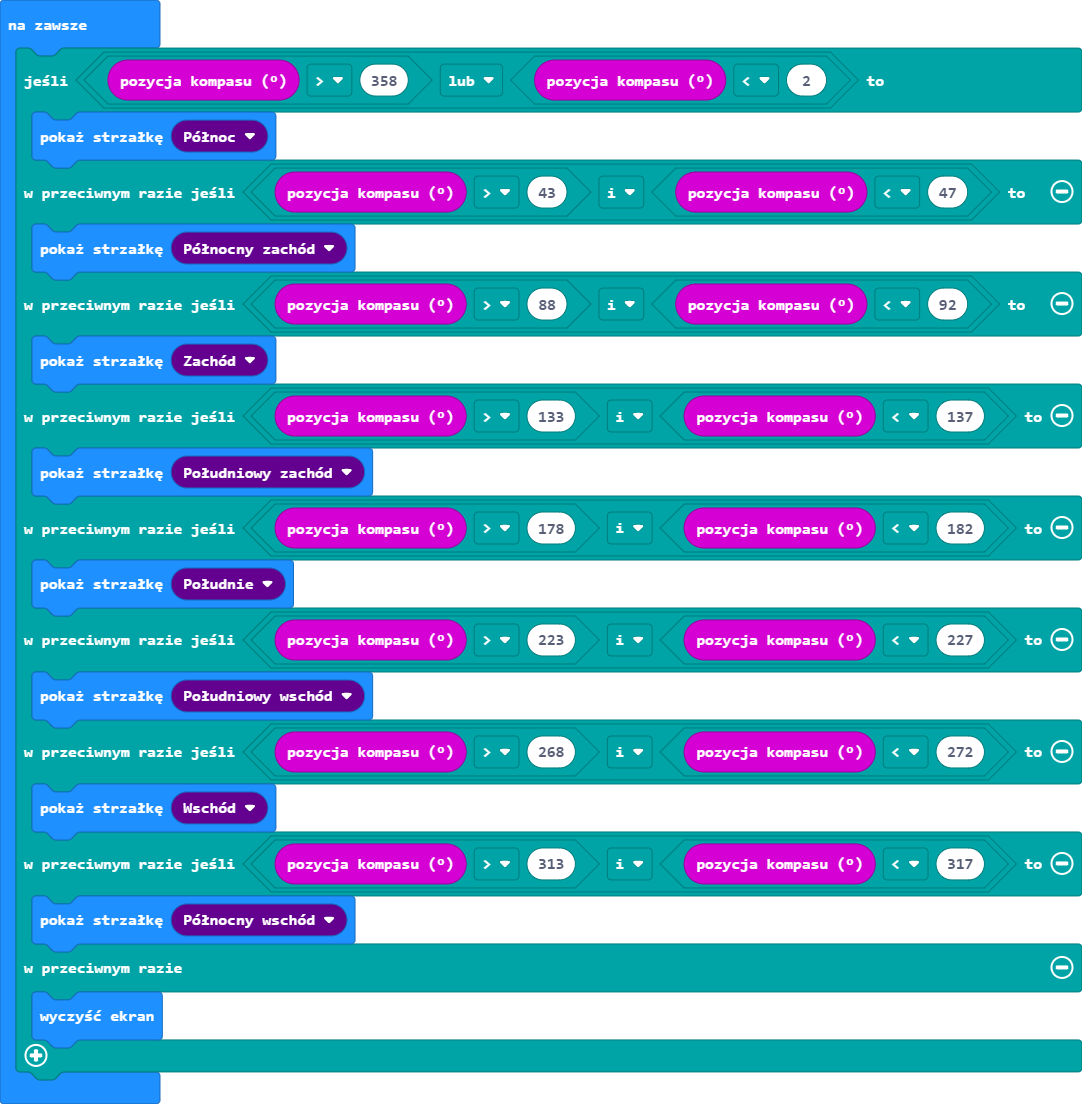
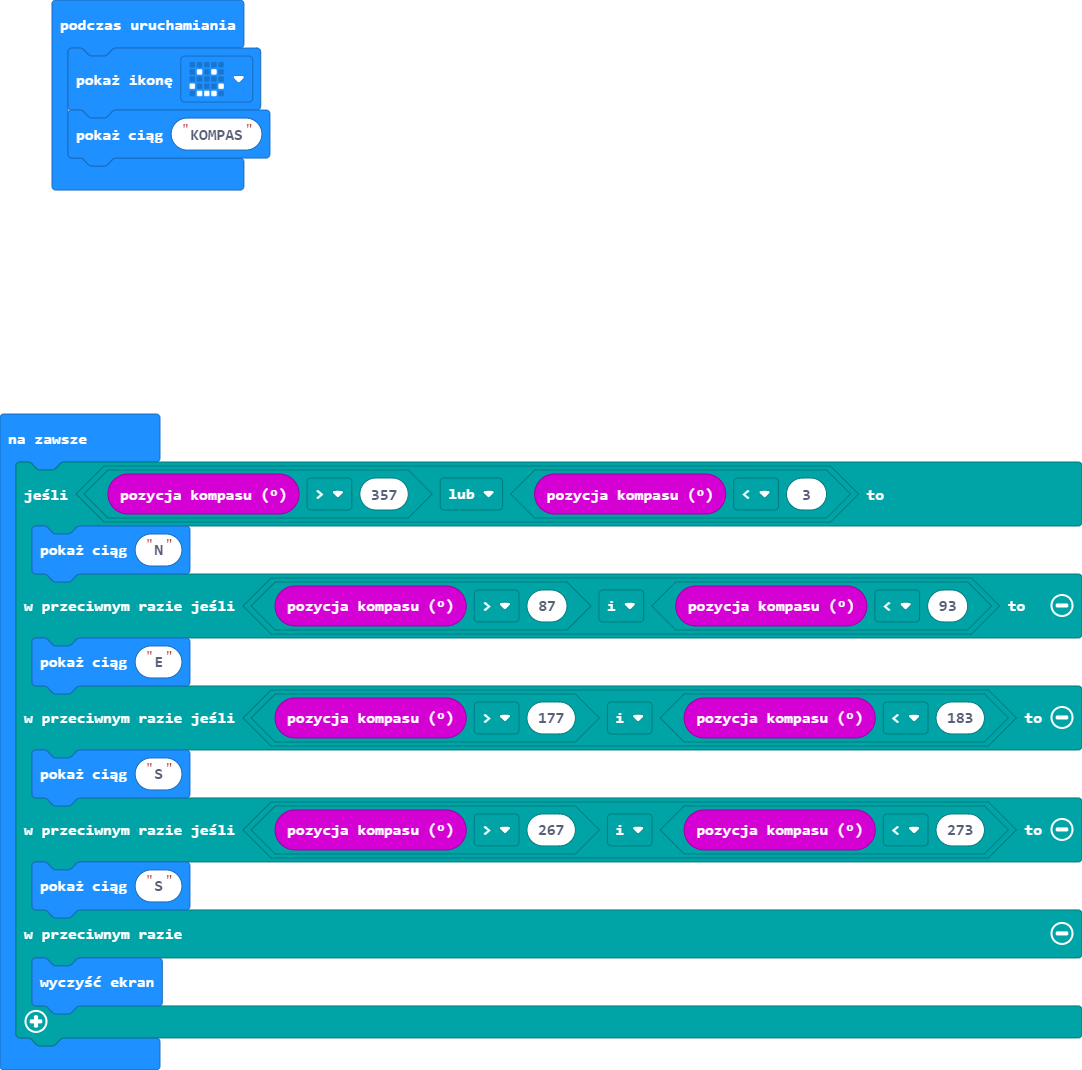
Aktualizacja pxt.json, main.blocks, main.ts, main.py

diff --git a/main.ts b/main.ts
@@ -1,20 +1,14 @@
+basic.showIcon(IconNames.Happy)
+basic.showString("KOMPAS")
 basic.forever(function () {
-    if (input.compassHeading() > 358 || input.compassHeading() < 2) {
-        basic.showArrow(ArrowNames.North)
-    } else if (input.compassHeading() > 43 && input.compassHeading() < 47) {
-        basic.showArrow(ArrowNames.NorthWest)
-    } else if (input.compassHeading() > 88 && input.compassHeading() < 92) {
-        basic.showArrow(ArrowNames.West)
-    } else if (input.compassHeading() > 133 && input.compassHeading() < 137) {
-        basic.showArrow(ArrowNames.SouthWest)
-    } else if (input.compassHeading() > 178 && input.compassHeading() < 182) {
-        basic.showArrow(ArrowNames.South)
-    } else if (input.compassHeading() > 223 && input.compassHeading() < 227) {
-        basic.showArrow(ArrowNames.SouthEast)
-    } else if (input.compassHeading() > 268 && input.compassHeading() < 272) {
-        basic.showArrow(ArrowNames.East)
-    } else if (input.compassHeading() > 313 && input.compassHeading() < 317) {
-        basic.showArrow(ArrowNames.NorthEast)
+    if (input.compassHeading() > 357 || input.compassHeading() < 3) {
+        basic.showString("N")
+    } else if (input.compassHeading() > 87 && input.compassHeading() < 93) {
+        basic.showString("E")
+    } else if (input.compassHeading() > 177 && input.compassHeading() < 183) {
+        basic.showString("S")
+    } else if (input.compassHeading() > 267 && input.compassHeading() < 273) {
+        basic.showString("S")
     } else {
         basic.clearScreen()
     }

diff --git a/main.py b/main.py
@@ -1,22 +1,15 @@
-basic.show_icon(IconNames.HAPPY)
-
-def on_forever():
-    if input.compass_heading() > 358 or input.compass_heading() < 2:
-        basic.show_arrow(ArrowNames.NORTH)
-    elif input.compass_heading() > 43 and input.compass_heading() < 47:
-        basic.show_arrow(ArrowNames.NORTH_WEST)
-    elif input.compass_heading() > 88 and input.compass_heading() < 92:
-        basic.show_arrow(ArrowNames.WEST)
-    elif input.compass_heading() > 133 and input.compass_heading() < 137:
-        basic.show_arrow(ArrowNames.SOUTH_WEST)
-    elif input.compass_heading() > 178 and input.compass_heading() < 182:
-        basic.show_arrow(ArrowNames.SOUTH)
-    elif input.compass_heading() > 223 and input.compass_heading() < 227:
-        basic.show_arrow(ArrowNames.SOUTH_EAST)
-    elif input.compass_heading() > 268 and input.compass_heading() < 272:
-        basic.show_arrow(ArrowNames.EAST)
-    elif input.compass_heading() > 313 and input.compass_heading() < 317:
-        basic.show_arrow(ArrowNames.NORTH_EAST)
-    else:
-        basic.clear_screen()
-basic.forever(on_forever)
+basic.showIcon(IconNames.Happy)
+basic.showString("KOMPAS")
+basic.forever(function () {
+    if (input.compassHeading() > 357 || input.compassHeading() < 3) {
+        basic.showString("N")
+    } else if (input.compassHeading() > 87 && input.compassHeading() < 93) {
+        basic.showString("E")
+    } else if (input.compassHeading() > 177 && input.compassHeading() < 183) {
+        basic.showString("S")
+    } else if (input.compassHeading() > 267 && input.compassHeading() < 273) {
+        basic.showString("S")
+    } else {
+        basic.clearScreen()
+    }
+})
